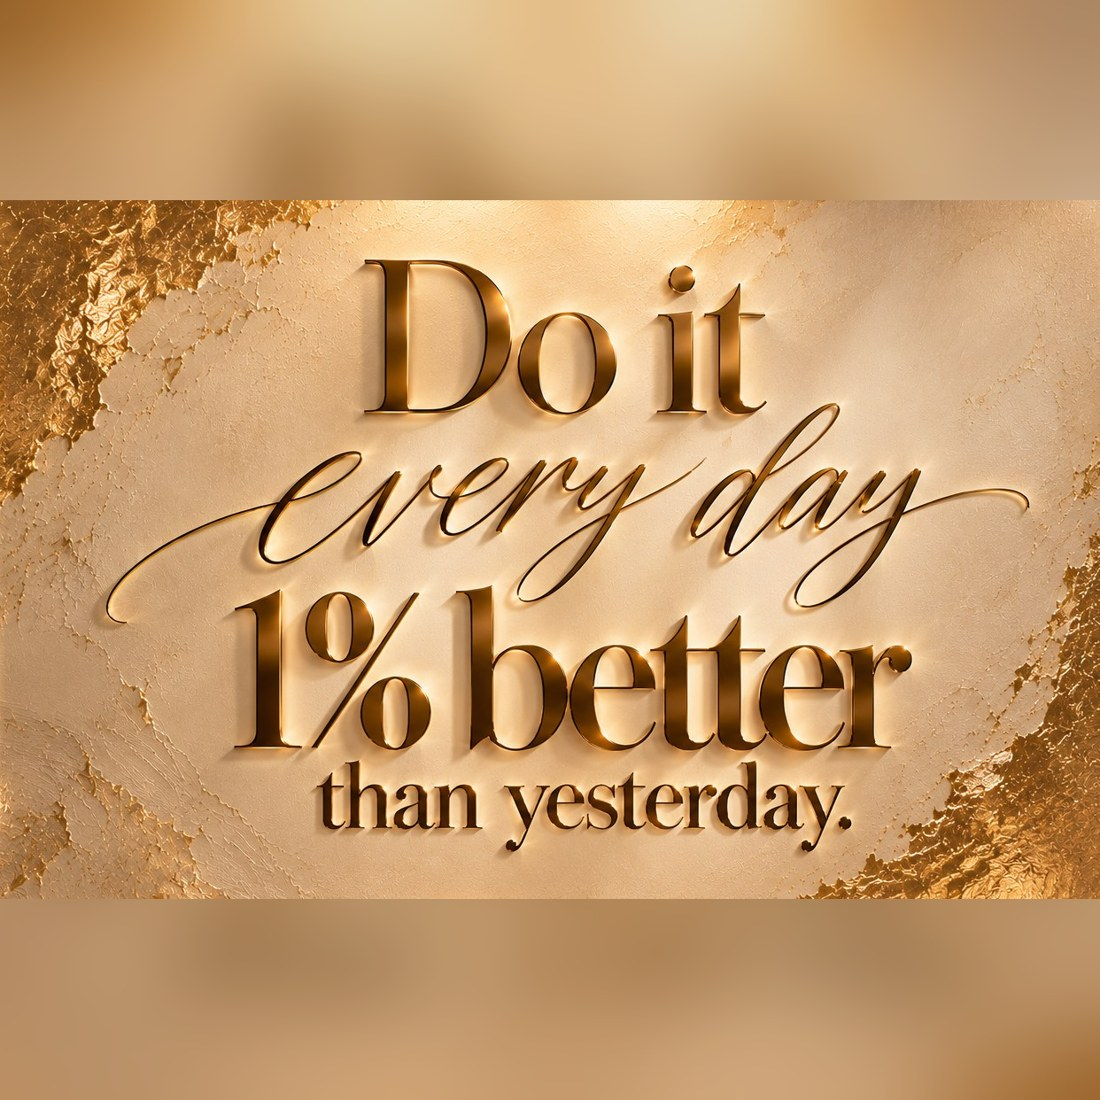
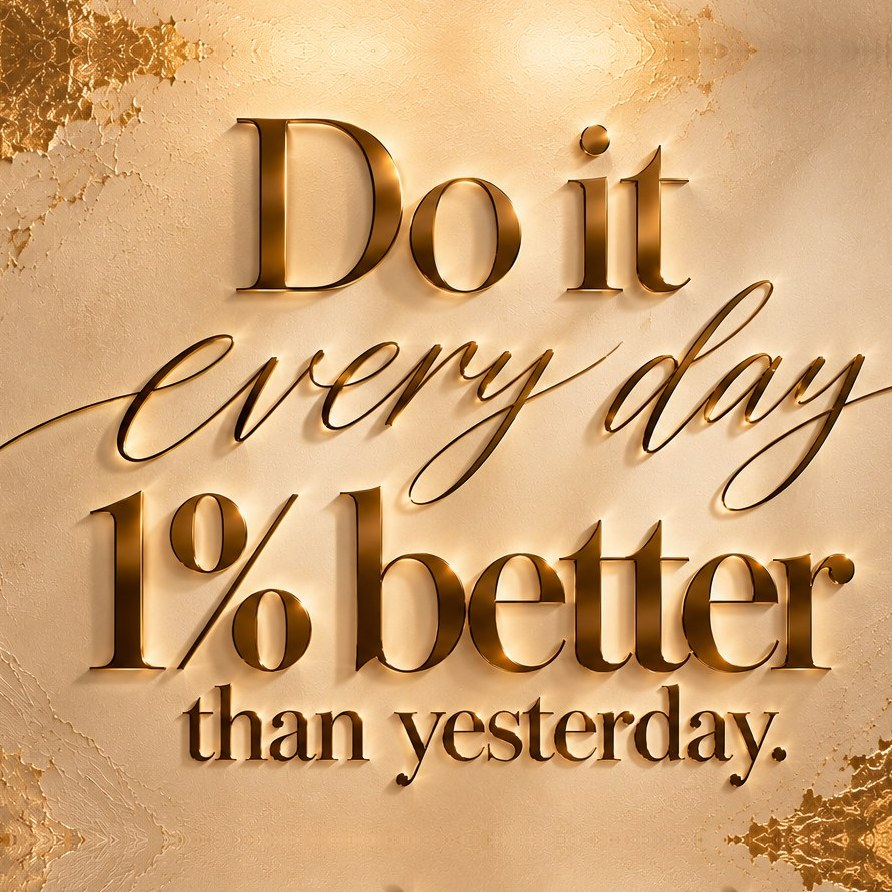
Fill the whole frame in every Extra Large square preview
Squares no longer use plain or blurred side bands: each artwork is
cropped to fill the square, with crop positions chosen to keep text
and subjects whole. Artworks whose text is taller or wider than a
square get a slightly larger crop with their own background edge
mirrored into the short sides.

Claude-Session: https://claude.ai/code/session_01D5x6TuyvAbTg5szgqqz6sE

diff --git a/scripts/build-square-art.py b/scripts/build-square-art.py
@@ -4,10 +4,11 @@ import os, sys
 from PIL import Image, ImageDraw
 import numpy as np
 os.chdir(os.path.join(os.path.dirname(os.path.abspath(__file__)), '..', 'images', 'art'))
-PAD = {'boss-lady-mood','manifest-your-dreams','never-stop-pushing','new-era-of-me','golden-stiletto','gloss-lips-duo',
-       'crimson-wave','pink-night-drive','rose-on-heels','sage-peach-drip'}
-BLUR = {'watch-me', 'have-your-cake', 'where-is-my-bag', 'one-percent-better'}  # kept whole, sides filled with a soft blurred copy of the artwork
-ALIGN = {'burj-al-arab-shore': 0.0, 'paris-by-night': 0.05}  # crop position for centred crops: 0 = keep the top, 0.5 = centre, 1 = keep the bottom
+PAD = set()  # every square fills the frame completely (centred crop)
+BLUR = set()  # kept whole, sides filled with a soft blurred copy of the artwork
+ALIGN = {'burj-al-arab-shore': 0.0, 'paris-by-night': 0.05, 'boss-lady-mood': 0.0, 'manifest-your-dreams': 0.0, 'never-stop-pushing': 0.0, 'its-you-vs-you': 0.85}
+# Text that is taller (or wider) than a square crop: take a slightly larger square and fill the short sides with a mirrored copy of the artwork's own edge, so the frame is still completely filled
+MIRROR = {'new-era-of-me': 1.14, 'where-is-my-bag': 1.12, 'one-percent-better': 1.13}  # crop position for centred crops: 0 = keep the top, 0.5 = centre, 1 = keep the bottom
 ONE_COLOUR = {'golden-stiletto': 'l'}  # fill both sides with this edge's colour
 def edge(a, side, n):
     strip = {'l': a[:, :n], 'r': a[:, -n:], 't': a[:n], 'b': a[-n:]}[side]
@@ -15,7 +16,21 @@ def edge(a, side, n):
 fs = sorted(f for f in os.listdir('.') if f.endswith('.jpg'))
 for f in fs:
     im = Image.open(f).convert('RGB'); w, h = im.size; pid = f[:-4]
-    if pid in BLUR:
+    if pid in MIRROR:
+        import numpy as np
+        short, long_ = min(w, h), max(w, h)
+        s = min(long_, round(short * MIRROR[pid])); pad = s - short
+        a = np.asarray(im)
+        if h >= w:
+            y0 = (h - s) // 2; a = a[y0:y0 + s]
+            l, r = pad // 2, pad - pad // 2
+            a = np.concatenate([a[:, :l][:, ::-1], a, a[:, -r:][:, ::-1] if r else a[:, :0]], axis=1)
+        else:
+            x0 = (w - s) // 2; a = a[:, x0:x0 + s]
+            tp, bt = pad // 2, pad - pad // 2
+            a = np.concatenate([a[:tp][::-1], a, a[-bt:][::-1] if bt else a[:0]], axis=0)
+        sq = Image.fromarray(a)
+    elif pid in BLUR:
         from PIL import ImageFilter, ImageEnhance
         s = max(w, h); k = s / min(w, h)
         bg = im.resize((round(w * k), round(h * k)), Image.LANCZOS)
